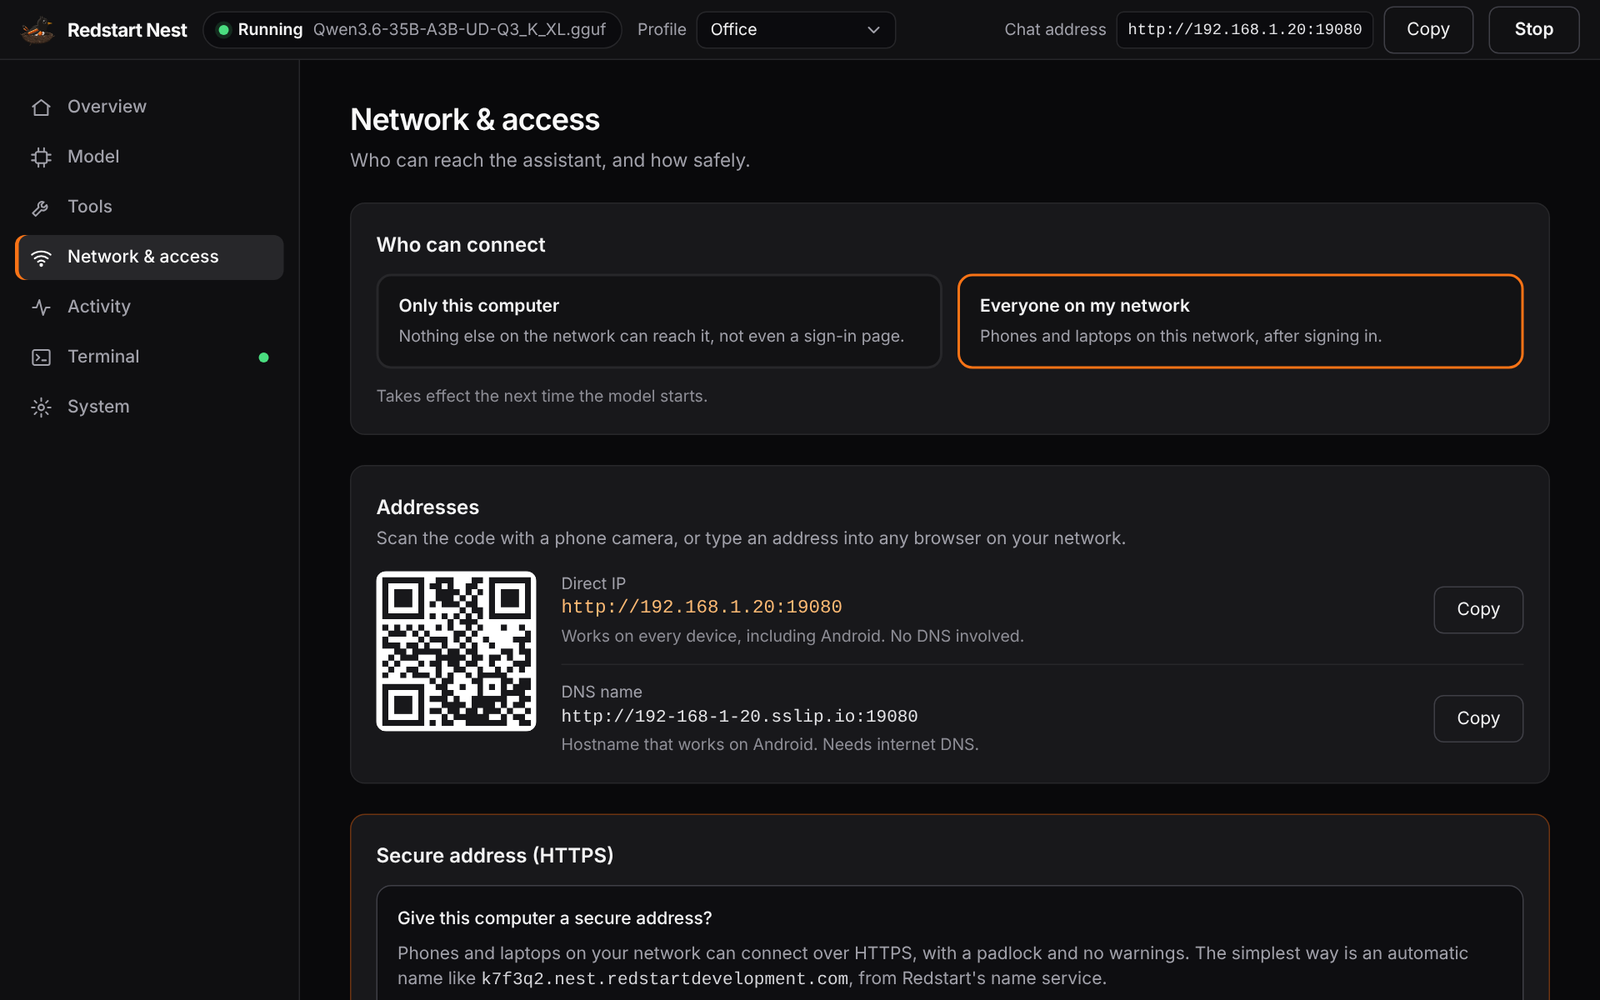
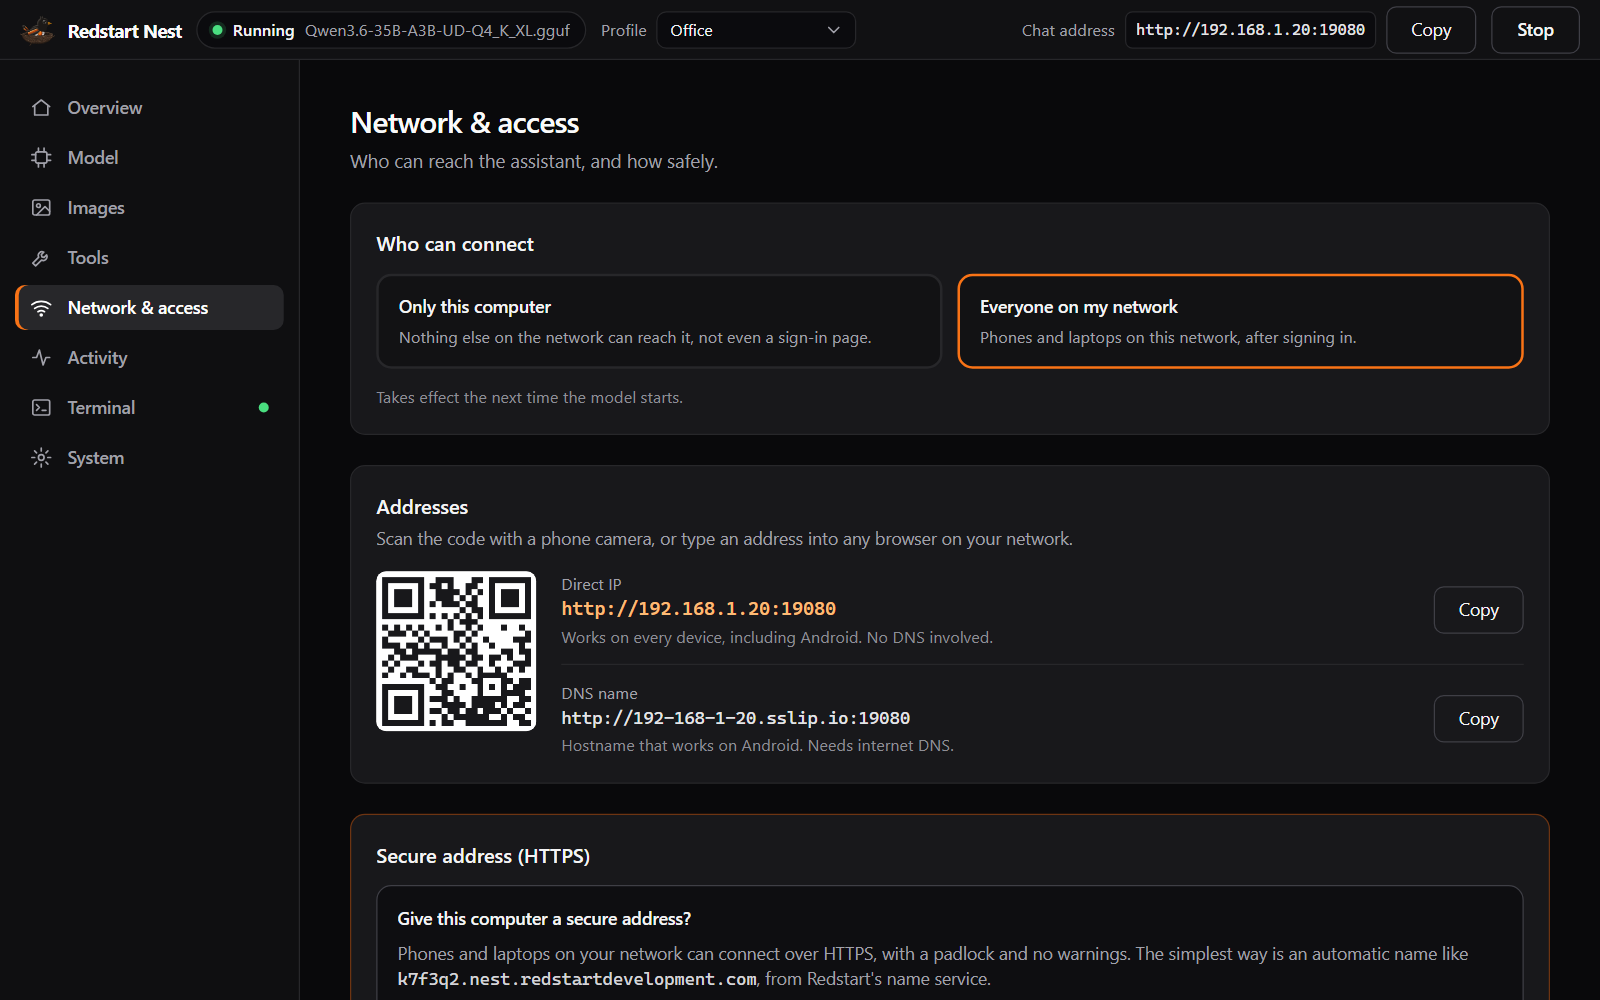
docs: README screenshots retaken with real models, and a picture being made
- Nest pages retaken (seven sections now, Images among them) and a new
  chat screenshot of Qwen3.6-35B-A3B calling generate_image, FLUX.1
  schnell drawing the picture. Captured from this code on the tested
  hardware (RTX 3060) with real models, not a stand-in; the LAN address
  is replaced by a stand-in (192.168.1.20) and every shot was checked for
  the machine's own address, user name and scratch paths before saving.
- The tour (APNG, 1280x800) rebuilt: the old frames decoded to full
  images, the four unchanged chat frames kept, the Nest frames replaced,
  and the Images page, Nest paused mid-picture and the picture in the
  chat added; 12 frames, 1.8 MB.
- README: a "Pictures, made on your GPU" still, Images in the Nest
  group, "See images" and "Make pictures" under what the assistant can
  do, Image generation in the diagram, a VRAM note under Requirements,
  and the caption now says which shots are real. The stale tables after
  the screenshots, linking images deleted in the last pass, removed.
- roadmap: eleven capabilities, vision, image generation. architecture:
  the diagram. CHANGELOG.

diff --git a/README.md b/README.md
@@ -20,29 +20,37 @@ LM Studio, Jan and Ollama are model runners — very good ones — aimed at gett
 ## Screenshots
 
 <p align="center">
-  <img src="docs/screenshots/tour.png" width="100%" alt="A tour of Redstart, advancing every few seconds: a chat answering with a comparison table, then the Nest admin panel's Overview, Tools, Model, Network & access and Terminal pages, then the chat's Accounts, Roles and Workflows settings." />
+  <img src="docs/screenshots/tour.png" width="100%" alt="A tour of Redstart, advancing every few seconds: a chat answering with a comparison table; the Nest admin panel's Overview, Model and Images pages; Nest paused while it makes a picture, and the picture in the chat; Nest's Tools, Network & access and Terminal pages; then the chat's Accounts, Roles and Workflows settings." />
 </p>
-<p align="center"><sub>A short tour that advances on its own: the chat, the Nest admin panel, then the chat's admin settings. Every image below opens full size when clicked.</sub></p>
+<p align="center"><sub>A short tour that advances on its own: the chat, the Nest admin panel, a picture being made, then the chat's admin settings. Every image below opens full size when clicked.</sub></p>
 
 **The chat** — served by Nest to any browser on your network, or through Redstart Twig.
 
 <a href="docs/screenshots/chat-conversation.png"><img src="docs/screenshots/chat-conversation.png" width="100%" alt="The chat UI answering a question with a comparison table, with recent conversations and a project in the sidebar." /></a>
 
-**Redstart Nest** — the admin panel: status and Start/Stop on top, every setting in six sections down the side.
+**Pictures, made on your GPU** — asked for a picture, the model calls `generate_image`; Nest pauses the chat model, makes it with the image model you chose, and brings the chat model back.
+
+<a href="docs/screenshots/chat-image.png"><img src="docs/screenshots/chat-image.png" width="100%" alt="The chat showing a picture of a robin on a mossy branch that the model just made with generate_image, with a download chip under it." /></a>
+
+**Redstart Nest** — the admin panel: status and Start/Stop on top, every setting in seven sections down the side.
 
 <a href="docs/screenshots/nest-overview.png"><img src="docs/screenshots/nest-overview.png" width="100%" alt="Nest's Overview page: the model in use, who can connect, tools on, a setup checklist and a QR code for phones." /></a>
 
 <details>
-<summary><b>More of Redstart Nest</b> — Model, Tools, Network &amp; access, Terminal</summary>
+<summary><b>More of Redstart Nest</b> — Model, Images, Tools, Network &amp; access, Terminal</summary>
 <br>
 
 **Model** — your models, the hardware, and memory settings in plain words; the llama.cpp flags sit under Advanced.
 
-<a href="docs/screenshots/nest-model.png"><img src="docs/screenshots/nest-model.png" width="100%" alt="Nest's Model page listing downloaded models with the one in use highlighted." /></a>
+<a href="docs/screenshots/nest-model.png"><img src="docs/screenshots/nest-model.png" width="100%" alt="Nest's Model page: the model in use, the hardware line, and the models folder with a vision model marked as seeing images." /></a>
+
+**Images** — the picture model, the way Model is the chat model: the image model in use, your image models, finding one on Hugging Face, and the engine.
+
+<a href="docs/screenshots/nest-images.png"><img src="docs/screenshots/nest-images.png" width="100%" alt="Nest's Images page: FLUX.1 schnell in use and ready, the image models list, and the stable-diffusion.cpp engine installed with its CUDA build." /></a>
 
 **Tools** — one row per tool with its switch; opening a row shows its settings.
 
-<a href="docs/screenshots/nest-tools.png"><img src="docs/screenshots/nest-tools.png" width="100%" alt="Nest's Tools page: a compact list of tools with on/off switches, with Documents opened to show its folder." /></a>
+<a href="docs/screenshots/nest-tools.png"><img src="docs/screenshots/nest-tools.png" width="100%" alt="Nest's Tools page: a compact list of tools with on/off switches, with Image generation opened to show it is ready and links to the Images page." /></a>
 
 **Network &amp; access** — who can connect, the addresses and QR code, HTTPS, and sign-in.
 
@@ -80,20 +88,7 @@ LM Studio, Jan and Ollama are model runners — very good ones — aimed at gett
 
 </details>
 
-<sub>Captured from this repository's own code against a stand-in model server, so the model's answers are scripted. The hardware line shows the tested configuration below.</sub>
-
----|---|---|---|
-| ![Nest configuration tab](docs/screenshot-redstart-nest.png) | ![Nest models tab — local storage and Hugging Face browser](docs/screenshot-nest-models.png) | ![Nest tools tab — capabilities like web access, Postgres, Documents, SQLite, Vault](docs/screenshot-nest-tools.png) | ![Nest server tab — live server terminal](docs/screenshot-nest-server.png) |
-
-**Redstart Twig / chat UI**
-
-| Login | Chat | Settings — General | Settings — Tools | Settings — Accounts |
-|---|---|---|---|---|
-| ![Login screen](docs/screenshot-login.png) | ![Chat UI](docs/screenshot-chat-ui.png) | ![Settings — General](docs/screenshot-chat-settings-general.png) | ![Settings — Tools, per-tool enable and always-allow](docs/screenshot-chat-settings-tools.png) | ![Settings — Accounts, with per-account roles](docs/screenshot-chat-settings-accounts.png) |
-
-| Settings — Roles | Settings — System Prompt | Settings — Connectors | Your account | Your files |
-|---|---|---|---|---|
-| ![Settings — Roles](docs/screenshot-chat-settings-roles.png) | ![Settings — System Prompt](docs/screenshot-chat-settings-system-prompt.png) | ![Settings — Connectors, per-app API keys](docs/screenshot-chat-settings-connectors.png) | ![Your account page](docs/screenshot-chat-account.png) | ![Your files on the server](docs/screenshot-chat-files.png) |
+<sub>All captured from this repository's own code. The Nest pages and the picture are from a real run on the tested hardware below: Qwen3.6-35B-A3B answering, FLUX.1 schnell drawing, the network address replaced with a stand-in. The other chat screens were captured earlier against a stand-in model server, so those answers are scripted.</sub>
 
 ---
 
@@ -130,6 +125,8 @@ The chat is an agent, not just a text box: it works with tools on your own data,
 **Work with your data** ([Capabilities](docs/capabilities.md))
 - **Files and documents.** Read PDFs, Word, Excel, CSV and Markdown; create `.docx`, `.pdf` and `.md` files that appear in the chat as downloads. Each account's files are its own.
 - **Run Python.** `run_python` runs numpy, pandas and matplotlib in a WebAssembly sandbox with no network and no access outside the conversation's own folder. Charts come back as images.
+- **See images.** With a vision model (Qwen3-VL, Gemma 3 and others), it reads photos and screenshots you attach, and looks at image files with `view_image`. Nest downloads a vision model's projector with it and loads it automatically.
+- **Make pictures.** `generate_image` draws with an image model you pick on Hugging Face (FLUX.1 schnell is the tested one; FLUX.1 dev, SDXL and SD 1.x checkpoints work the same way), on this machine's GPU with stable-diffusion.cpp. A 12 GB card cannot hold both models, so the chat model pauses for the 20 to 60 seconds a picture takes and comes back by itself; other chats wait rather than fail. Set up on Nest's Images page.
 - **Search your own files with citations.** Hybrid word and embedding search over uploads, attachments and created documents, with numbered sources linked back to each file. An admin can add a **Shared Documents** folder (policy manuals, templates, reference material) that everyone searches read-only, as far as their role allows.
 - **Query databases and repositories, read-only.** Postgres and SQLite (enforced by a read-only transaction, not by inspecting the SQL), a folder of Markdown notes, local Git repositories.
 - **Reach the web, only where allowed.** Fetch from approved sources, search, and look up academic papers (OpenAlex, arXiv, PubMed).
@@ -164,7 +161,7 @@ The chat is an agent, not just a text box: it works with tools on your own data,
   ├─ Gateway     :19080 (LAN in network mode) ├─ Scans LAN on port 8765
   │   └─ Injects Redstart context      ├─ Finds Redstart Nest automatically
   ├─ llama-server :19081 (localhost)   └─ Connects to http://IP:19080
-  ├─ MCP server   :19082 (web, Documents, Python, document search, Memory, File System, SQLite, Postgres, Vault, Git, Scholar, plugins)
+  ├─ MCP server   :19082 (web, Documents, Python, Image generation, document search, Memory, File System, SQLite, Postgres, Vault, Git, Scholar, plugins)
   ├─ Admin plane :19083 (the launcher UI, in a browser — owner only, loopback by default)
   └─ Beacon      :8765
 ```
@@ -193,6 +190,7 @@ Accounts are **on by default** with no localhost exemption, and each account's f
 - Windows 10/11
 - A GPU with at least 6 GB VRAM (NVIDIA recommended; llama.cpp supports CUDA and Vulkan)
 - A GGUF model file
+- For pictures: an image model (FLUX.1 schnell Q4_K is about 10 GB with its shared files; it peaks near 11 GB of VRAM while drawing, with the chat model paused)
 
 **Redstart Twig (Android)** — Android 10 or later, on the same Wi-Fi network as the Nest PC. **Not currently working** — [see note](#redstart-twig-android).
 

diff --git a/CHANGELOG.md b/CHANGELOG.md
@@ -22,6 +22,9 @@ Rolling, human-readable log of changes to the Redstart Nest / Redstart Twig code
   - Stop while paused wins; a failed resume ends in a full stop 3 s later, so the stop's connection teardown does not cut off the tool's answer.
   - Measured on the RTX 3060 through these functions: a 7 GB model pauses in 0.6 s and is back in 3.9 s; a 20.8 GB MoE in 1.0 s and 24 s. VRAM returns the moment the process exits.
   - Tests: `test-model-suspend.mjs` (new, in `test:security` and CI).
+- **README screenshots retaken, with a picture.** The Nest pages (now seven sections, Images among them) and a new chat screenshot of the model making a picture, captured from this code on the tested hardware with real models (Qwen3.6-35B-A3B, FLUX.1 schnell) and the LAN address replaced by a stand-in; the tour gains the Images page, Nest paused mid-picture and the picture in the chat (12 frames). The stale tables after the screenshots, linking images deleted in the last pass, are gone.
+- **A picture a tool makes now shows in the chat.** It was drawn only inside the tool's block, folded away by default, with a download chip outside; images from tool results (`generate_image`, `run_python` charts) are drawn under the reply now, and other files keep the chip. Found taking the screenshots.
+- **The Images page follows a picture being made**: it re-reads its status while open, and reads "Making a picture" with the chat model paused.
 - **Image generation: `generate_image`, with an image model you choose** (`docs/notes/image-generation-plan.md` S3 to S7). FLUX.1 schnell is the tested first choice; any model of a family Nest knows works.
   - **The GPU lease** (`gpu-lease.mjs`): one image job at a time, FIFO; the chat model paused through `suspendModel` and always resumed by `release()`. A marker file exists while it is held, so a crash mid-picture reloads the paused model on the next start (plan decision U-IG4). A stale `sd.pid` is reaped at start like llama-server's.
   - **The engine** (`sd-runtime.mjs`, `sd-job.mjs`): stable-diffusion.cpp `master-1106-532d2c1`, downloaded on first use, CUDA build with an NVIDIA GPU (about 1 GB), Vulkan otherwise (30 MB), Metal on Apple Silicon; pinned per zip, fetched only from that release, verified before unpacking. One `sd-cli` process per job with an argv the model cannot steer into a path or a flag, a timeout, and progress read off its own bars.

diff --git a/docs/roadmap.md b/docs/roadmap.md
@@ -46,7 +46,9 @@ This is an honest work-in-progress. The project started as a personal home tool 
 - [x] Built-in MCP server — provider-driven, in-process or supervised stdio children, whitelist enforced at the server level
 - [x] Centralized MCP management — configured once in Nest, auto-discovered by every client; per-device config removed
 - [x] Source groups, custom sources, and external MCP servers on other devices
-- [x] Ten local capabilities — Postgres, SQLite, Vault, Git, Documents, File System, Python, Document search, Memory, Scholar
+- [x] Eleven local capabilities — Postgres, SQLite, Vault, Git, Documents, File System, Python, Image generation, Document search, Memory, Scholar
+- [x] **Vision** — a vision model's projector (`mmproj`) is downloaded with it and loaded with `--mmproj`, so attached images, `view_image` and images in tool results reach the model
+- [x] **Image generation** — `generate_image` with an image model you choose (FLUX.1, SDXL, SD 1.x families) on stable-diffusion.cpp, downloaded on first use; the chat model pauses while a picture is made and reloads by itself. Its own Images page in Nest
 - [x] **HTTPS on the LAN** (opt-in) — a bundled Caddy with a real Let's Encrypt certificate, by DNS-01, for an Automatic name from Redstart's name service or your own DuckDNS/deSEC name; nothing on the internet connects in
 - [x] **Chats run on the server** — a plain Send is a task in the daemon that the page follows, so a refresh or a sleeping phone doesn't end the reply
 - [x] **Workflows are Agent Skills** — stored as `SKILL.md` folders, imported and exported as `.zip` or `SKILL.md`, and loaded by the model itself with `use_skill`

diff --git a/docs/architecture.md b/docs/architecture.md
@@ -34,7 +34,7 @@ Nest, Twig and Blueprints share the same [SvelteKit](https://kit.svelte.dev/) fr
   ├─ Gateway     :19080 (LAN in network mode) ├─ Scans LAN on port 8765
   │   └─ Injects Redstart context      ├─ Finds Redstart Nest automatically
   ├─ llama-server :19081 (localhost)   └─ Connects to http://IP:19080
-  ├─ MCP server   :19082 (web, Documents, Python, document search, Memory, File System, SQLite, Postgres, Vault, Git, Scholar, plugins)
+  ├─ MCP server   :19082 (web, Documents, Python, Image generation, document search, Memory, File System, SQLite, Postgres, Vault, Git, Scholar, plugins)
   ├─ Admin plane :19083 (the launcher UI in a browser — owner only, loopback by default)
   └─ Beacon      :8765
 ```
